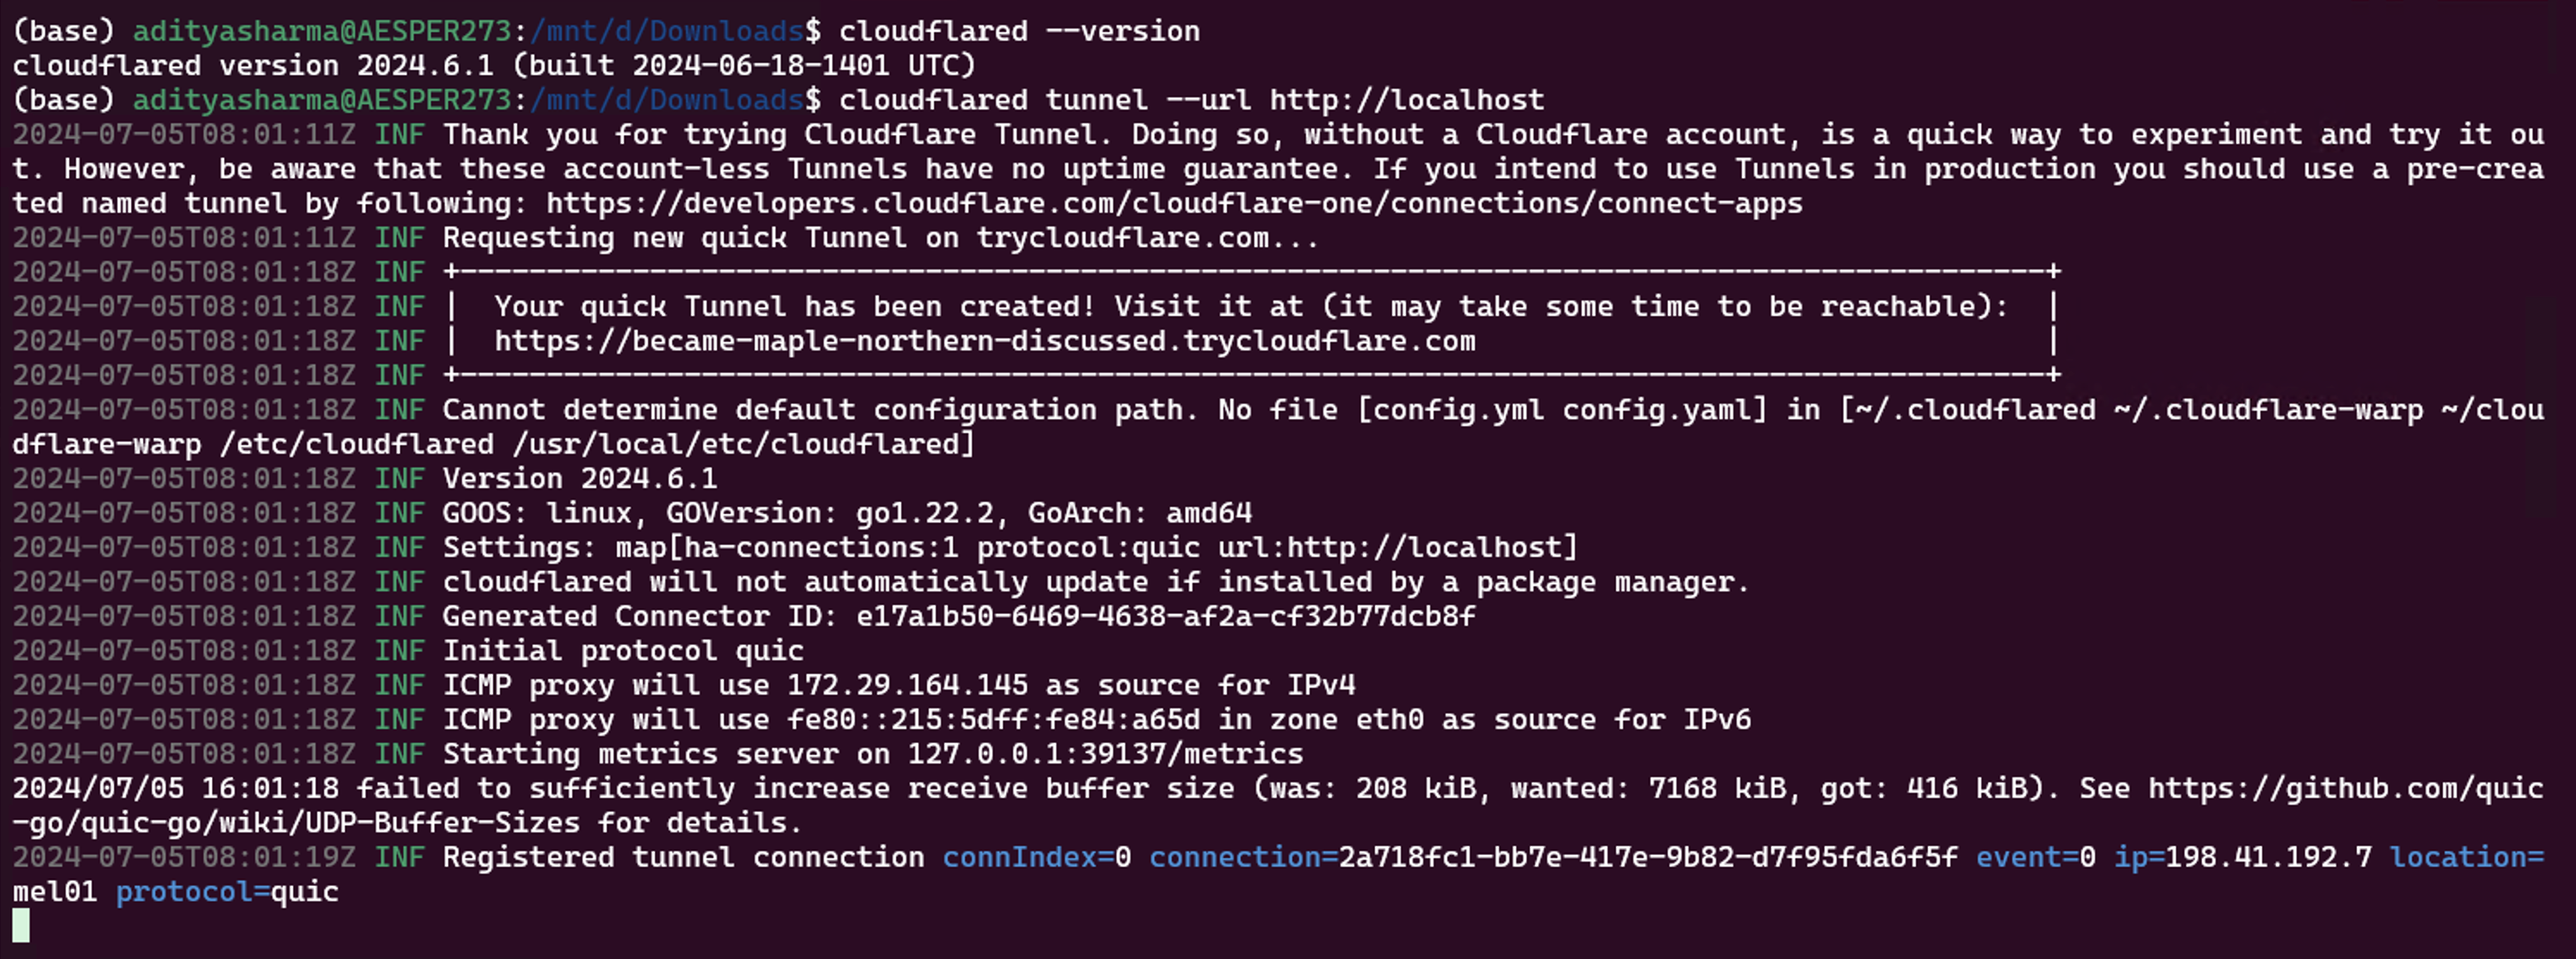
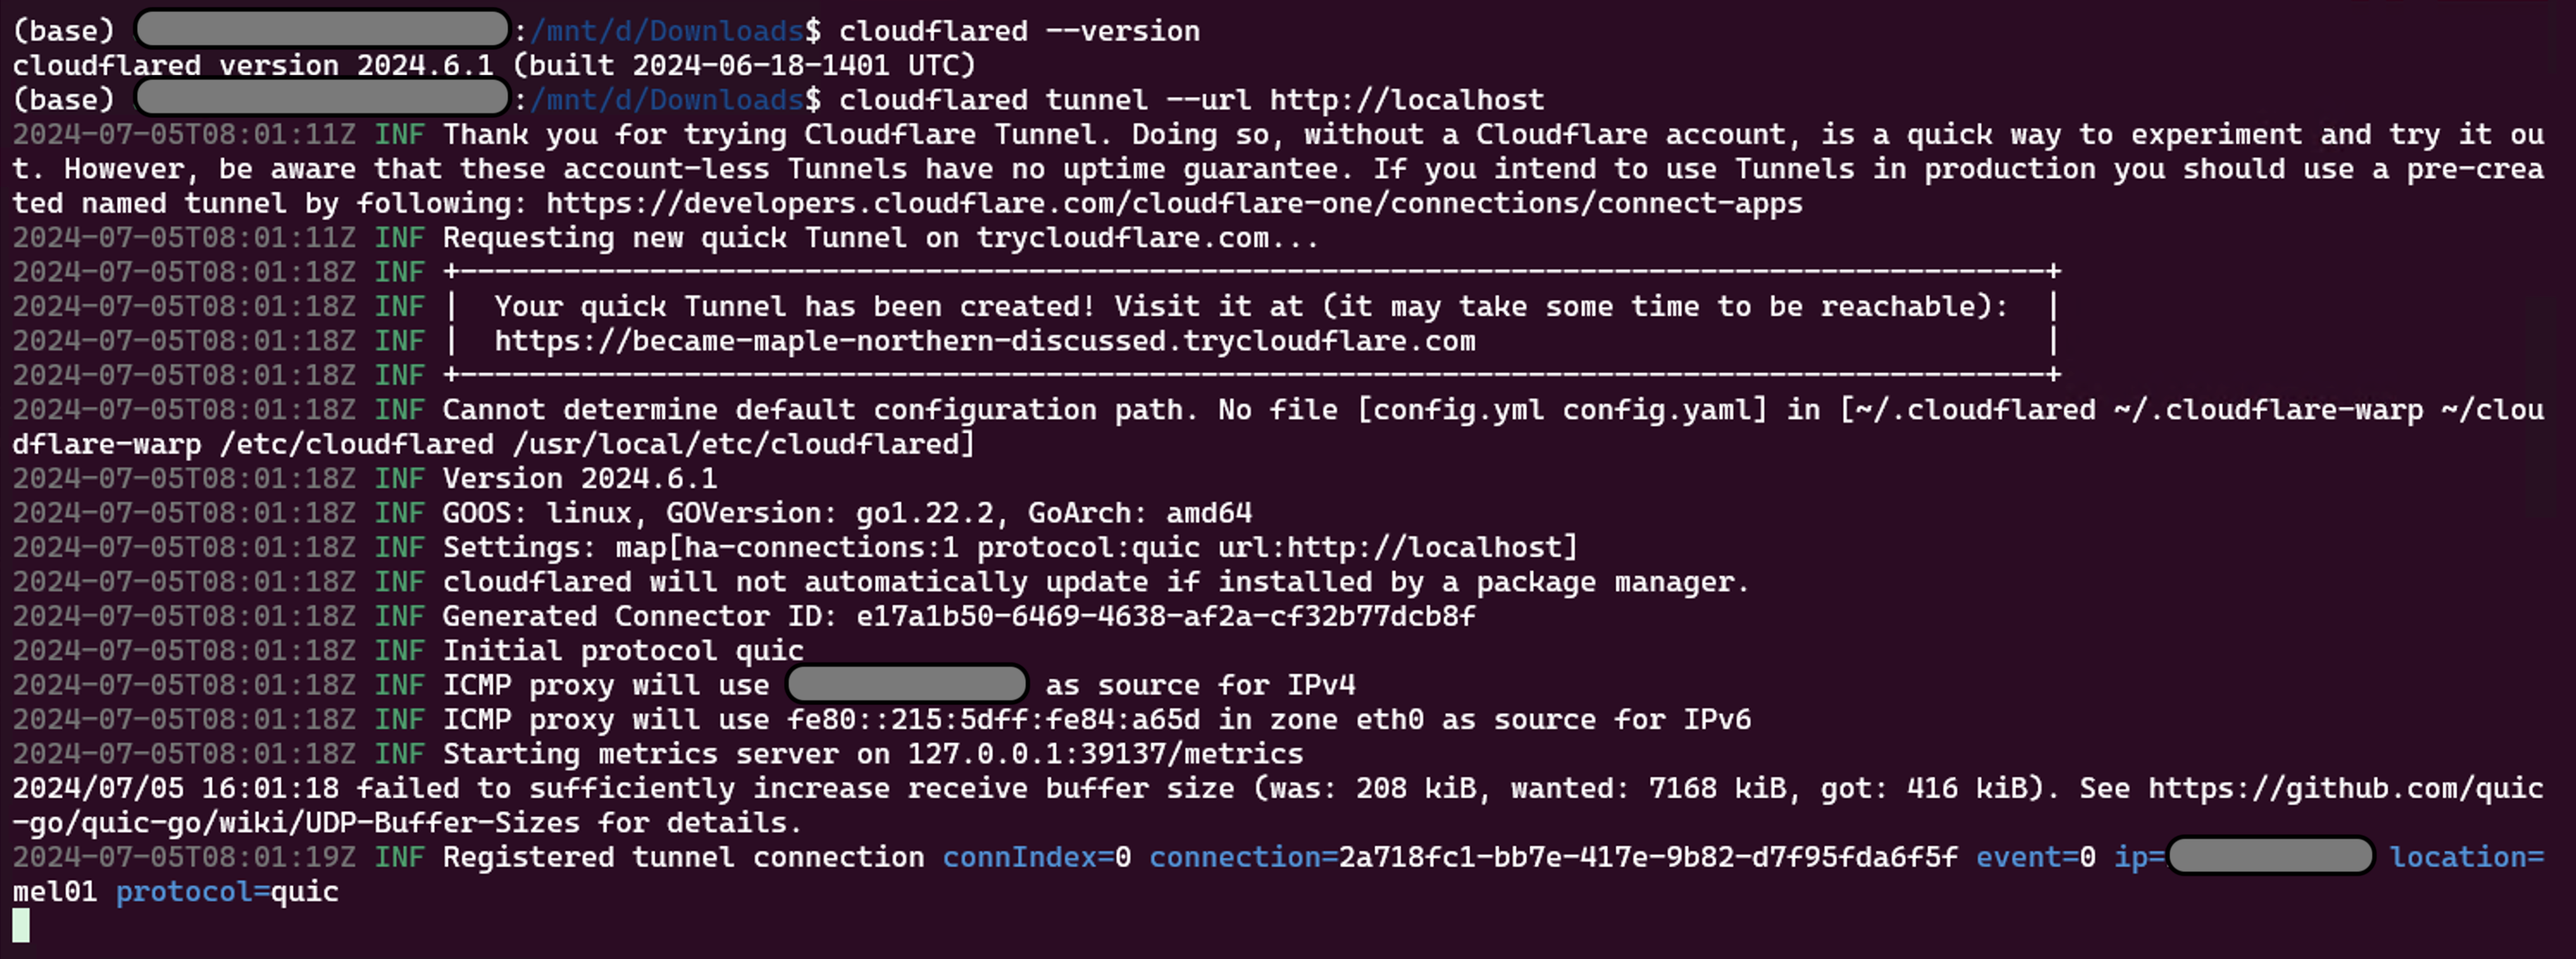
modified articles/using_personal_cloud_as_dvc_remote.py and redacted info from screenshots

Changed region(s): [[0.0311, 0.0, 0.2177, 0.1221], [0.2799, 0.6715, 0.4043, 0.7325], [0.8398, 0.8546, 0.9331, 0.9156]]

diff --git a/articles/using_personal_cloud_as_dvc_remote.py b/articles/using_personal_cloud_as_dvc_remote.py
@@ -100,7 +100,7 @@ cloudflared tunnel --url http://localhost
 """
 )
  
-st.image('images/Pasted image 20240705180148.png') # To redact
+st.image('images/Pasted image 20240705180148.png')
 
 st.markdown("""
 A temporary tunnel is now available via a URL - see the same login screen as our localhost.
